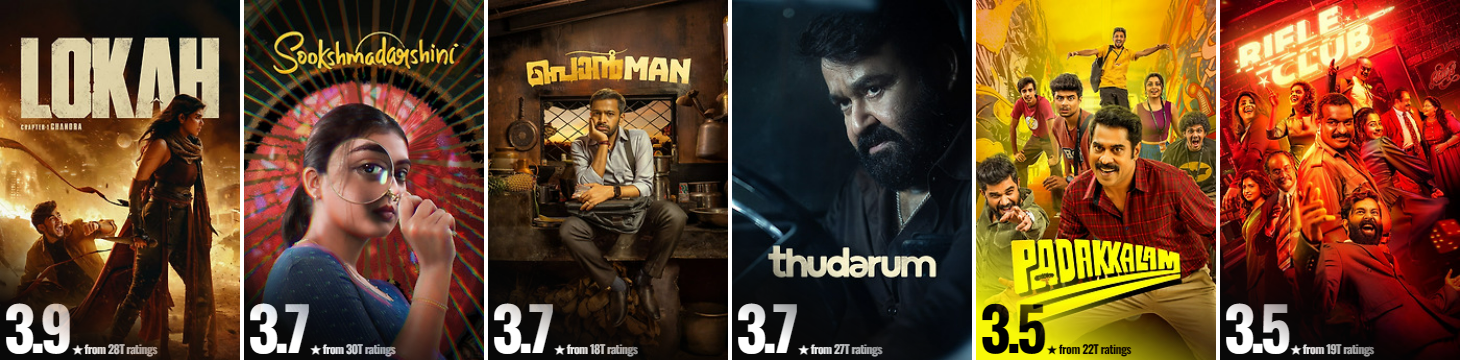
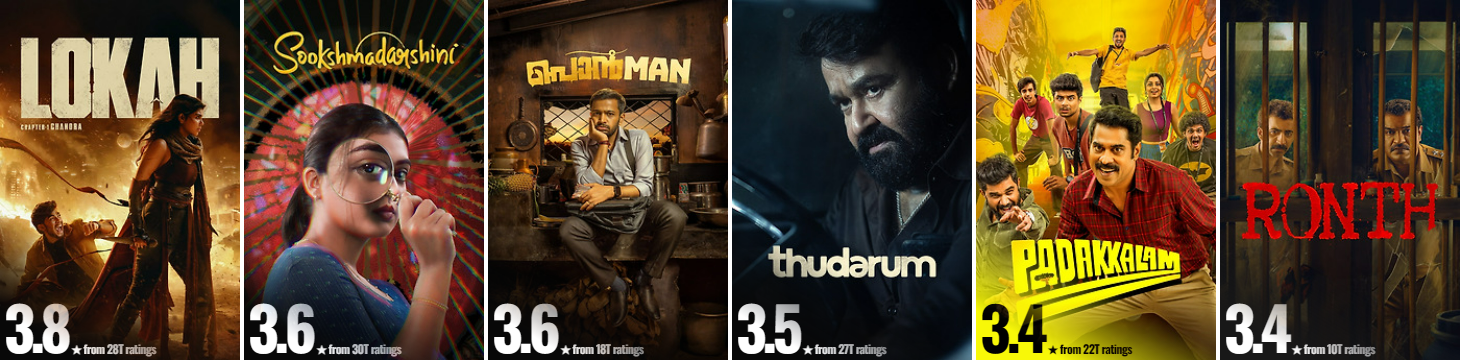
Update movie rating calculation and toggle headless mode in Puppeteer

diff --git a/letterboxd.hits.html.html b/letterboxd.hits.html.html
@@ -36,7 +36,7 @@
   </style>
 </head>
 
-<body class="bg-white" x-data="{ movies: [] }" x-init='movies = [{"enable":true,"last_updated_at":"2025-09-27T18:22+05:30","ltrbxd_slug":"lokah-chapter-one-chandra","name":"Lokah: Chapter One - Chandra","originalName":"ലോകഃ  Chapter One - ചന്ദ്ര","releaseYear":2025,"runTime":150,"director":{"/director/dominic-arun-1/":"Dominic Arun"},"genre":["Fantasy","Adventure","Action"],"image":"https://a.ltrbxd.com/resized/film-poster/1/1/7/3/3/2/4/1173324-lokah-chapter-one-chandra-0-230-0-345-crop.jpg?v=2a812f793d","releaseDate":"2025-08-28","half":32,"five":3510,"two":396,"three":3280,"three_half":5978,"four":10162,"four_half":3835,"one_half":98,"two_half":916,"one":73,"average":3.79,"total":28280,"_count":28280,"count":"28T","_rating":3.873285007072136,"rating":"3.9","dominant":{"r":8,"g":8,"b":8},"bg":"#080808","fg":"white"},{"enable":true,"ltrbxd_slug":"sookshmadarshini","average":3.63,"total":29775,"half":48,"one":87,"one_half":97,"two":603,"two_half":1198,"three":5066,"three_half":8069,"four":10533,"four_half":2262,"five":1812,"last_updated_at":"2025-09-27T18:21+05:30","director":{"/director/mc-jithin/":"MC Jithin"},"genre":["Thriller","Mystery","Comedy"],"image":"https://a.ltrbxd.com/resized/film-poster/8/5/4/8/8/7/854887-sookshmadarshini-0-230-0-345-crop.jpg?v=dae4514406","releaseDate":"2024-11-22","runTime":142,"name":"Sookshmadarshini","originalName":"സൂക്ഷ്മദര്ശിനി","releaseYear":2024,"_count":29775,"count":"30T","_rating":3.669790092359362,"rating":"3.7","dominant":{"r":8,"g":8,"b":8},"bg":"#080808","fg":"white"},{"enable":true,"last_updated_at":"2025-09-27T18:16+05:30","ltrbxd_slug":"ponman","name":"Ponman","originalName":"പൊൻMAN","releaseYear":2025,"runTime":125,"director":{"/director/jyothish-shankar/":"Jyothish Shankar"},"genre":["Drama"],"image":"https://a.ltrbxd.com/resized/film-poster/1/1/2/7/3/4/7/1127347-ponman-0-230-0-345-crop.jpg?v=c28d617ff2","releaseDate":"2025-01-30","one":32,"two":269,"two_half":672,"three":3163,"three_half":5081,"four":6155,"four_half":1125,"five":947,"half":16,"one_half":50,"average":3.62,"total":17510,"_count":17510,"count":"18T","_rating":3.6563677898343805,"rating":"3.7","dominant":{"r":8,"g":8,"b":8},"bg":"#080808","fg":"white"},{"enable":true,"last_updated_at":"2025-09-27T18:19+05:30","ltrbxd_slug":"thudarum","name":"Thudarum","originalName":"തുടരും","releaseYear":2025,"runTime":164,"director":{"/director/tharun-moorthy/":"Tharun Moorthy"},"genre":["Drama","Action","Thriller"],"image":"https://a.ltrbxd.com/resized/film-poster/1/1/4/5/5/0/3/1145503-thudarum-0-230-0-345-crop.jpg?v=9070f2cee0","releaseDate":"2025-04-25","half":49,"one":131,"one_half":153,"two":782,"two_half":1622,"three":5077,"three_half":6468,"four":7425,"four_half":2494,"five":2662,"average":3.51,"total":26863,"_count":26863,"count":"27T","_rating":3.6520865130476863,"rating":"3.7","dominant":{"r":8,"g":8,"b":8},"bg":"#080808","fg":"white"},{"enable":true,"last_updated_at":"2025-09-27T18:15+05:30","ltrbxd_slug":"padakkalam","name":"Padakkalam","originalName":"പടക്കളം","releaseYear":2025,"runTime":124,"director":{"/director/manu-swaraj/":"Manu Swaraj"},"genre":["Comedy","Fantasy"],"image":"https://a.ltrbxd.com/resized/film-poster/1/1/3/6/2/4/2/1136242-padakkalam-0-230-0-345-crop.jpg?v=362c13f189","releaseDate":"2025-05-08","half":25,"one":81,"one_half":106,"two":526,"two_half":1224,"three":5099,"three_half":7080,"four":6094,"four_half":1118,"five":1101,"average":3.42,"total":22454,"_count":22454,"count":"22T","_rating":3.534047385766456,"rating":"3.5","dominant":{"r":248,"g":248,"b":8},"bg":"#f8f808","fg":"black"},{"enable":true,"ltrbxd_slug":"rifle-club","director":{"/director/aashiq-abu/":"Aashiq Abu"},"half":54,"one":134,"one_half":137,"two":651,"two_half":1309,"three":4128,"three_half":4991,"four":5702,"four_half":1132,"five":1084,"last_updated_at":"2025-09-27T18:18+05:30","genre":["Thriller","Action"],"image":"https://a.ltrbxd.com/resized/film-poster/1/0/6/4/4/6/8/1064468-rifle-club-0-230-0-345-crop.jpg?v=ae3f2da0e3","releaseDate":"2024-12-19","runTime":113,"average":3.39,"total":19322,"name":"Rifle Club","originalName":"റൈഫിൾ ക്ലബ്ബ്","releaseYear":2024,"_count":19322,"count":"19T","_rating":3.5252820618983542,"rating":"3.5","dominant":{"r":8,"g":8,"b":8},"bg":"#080808","fg":"white"}]'>
+<body class="bg-white" x-data="{ movies: [] }" x-init='movies = [{"enable":true,"last_updated_at":"2025-09-27T18:22+05:30","ltrbxd_slug":"lokah-chapter-one-chandra","name":"Lokah: Chapter One - Chandra","originalName":"ലോകഃ  Chapter One - ചന്ദ്ര","releaseYear":2025,"runTime":150,"director":{"/director/dominic-arun-1/":"Dominic Arun"},"genre":["Fantasy","Adventure","Action"],"image":"https://a.ltrbxd.com/resized/film-poster/1/1/7/3/3/2/4/1173324-lokah-chapter-one-chandra-0-230-0-345-crop.jpg?v=2a812f793d","releaseDate":"2025-08-28","half":32,"five":3510,"two":396,"three":3280,"three_half":5978,"four":10162,"four_half":3835,"one_half":98,"two_half":916,"one":73,"average":3.79,"total":28280,"_count":28280,"count":"28T","_rating":3.79,"rating":"3.8","dominant":{"r":8,"g":8,"b":8},"bg":"#080808","fg":"white"},{"enable":true,"ltrbxd_slug":"sookshmadarshini","average":3.63,"total":29775,"half":48,"one":87,"one_half":97,"two":603,"two_half":1198,"three":5066,"three_half":8069,"four":10533,"four_half":2262,"five":1812,"last_updated_at":"2025-09-27T18:21+05:30","director":{"/director/mc-jithin/":"MC Jithin"},"genre":["Thriller","Mystery","Comedy"],"image":"https://a.ltrbxd.com/resized/film-poster/8/5/4/8/8/7/854887-sookshmadarshini-0-230-0-345-crop.jpg?v=dae4514406","releaseDate":"2024-11-22","runTime":142,"name":"Sookshmadarshini","originalName":"സൂക്ഷ്മദര്ശിനി","releaseYear":2024,"_count":29775,"count":"30T","_rating":3.63,"rating":"3.6","dominant":{"r":8,"g":8,"b":8},"bg":"#080808","fg":"white"},{"enable":true,"last_updated_at":"2025-09-27T18:16+05:30","ltrbxd_slug":"ponman","name":"Ponman","originalName":"പൊൻMAN","releaseYear":2025,"runTime":125,"director":{"/director/jyothish-shankar/":"Jyothish Shankar"},"genre":["Drama"],"image":"https://a.ltrbxd.com/resized/film-poster/1/1/2/7/3/4/7/1127347-ponman-0-230-0-345-crop.jpg?v=c28d617ff2","releaseDate":"2025-01-30","one":32,"two":269,"two_half":672,"three":3163,"three_half":5081,"four":6155,"four_half":1125,"five":947,"half":16,"one_half":50,"average":3.62,"total":17510,"_count":17510,"count":"18T","_rating":3.62,"rating":"3.6","dominant":{"r":8,"g":8,"b":8},"bg":"#080808","fg":"white"},{"enable":true,"last_updated_at":"2025-09-27T18:19+05:30","ltrbxd_slug":"thudarum","name":"Thudarum","originalName":"തുടരും","releaseYear":2025,"runTime":164,"director":{"/director/tharun-moorthy/":"Tharun Moorthy"},"genre":["Drama","Action","Thriller"],"image":"https://a.ltrbxd.com/resized/film-poster/1/1/4/5/5/0/3/1145503-thudarum-0-230-0-345-crop.jpg?v=9070f2cee0","releaseDate":"2025-04-25","half":49,"one":131,"one_half":153,"two":782,"two_half":1622,"three":5077,"three_half":6468,"four":7425,"four_half":2494,"five":2662,"average":3.51,"total":26863,"_count":26863,"count":"27T","_rating":3.51,"rating":"3.5","dominant":{"r":8,"g":8,"b":8},"bg":"#080808","fg":"white"},{"enable":true,"last_updated_at":"2025-09-27T18:15+05:30","ltrbxd_slug":"padakkalam","name":"Padakkalam","originalName":"പടക്കളം","releaseYear":2025,"runTime":124,"director":{"/director/manu-swaraj/":"Manu Swaraj"},"genre":["Comedy","Fantasy"],"image":"https://a.ltrbxd.com/resized/film-poster/1/1/3/6/2/4/2/1136242-padakkalam-0-230-0-345-crop.jpg?v=362c13f189","releaseDate":"2025-05-08","half":25,"one":81,"one_half":106,"two":526,"two_half":1224,"three":5099,"three_half":7080,"four":6094,"four_half":1118,"five":1101,"average":3.42,"total":22454,"_count":22454,"count":"22T","_rating":3.42,"rating":"3.4","dominant":{"r":248,"g":248,"b":8},"bg":"#f8f808","fg":"black"},{"enable":true,"last_updated_at":"2025-09-27T18:20+05:30","ltrbxd_slug":"ronth","name":"Ronth","originalName":"റോന്ത്","releaseYear":2025,"runTime":120,"director":{"/director/shahi-kabir/":"Shahi Kabir"},"genre":["Drama","Crime"],"image":"https://a.ltrbxd.com/resized/film-poster/1/2/3/3/4/4/4/1233444-ronth-0-230-0-345-crop.jpg?v=56b3792ec6","releaseDate":"2025-06-13","half":29,"one":78,"one_half":92,"two":387,"two_half":804,"three":2320,"three_half":3009,"four":2765,"four_half":449,"five":331,"average":3.41,"total":10264,"_count":10264,"count":"10T","_rating":3.41,"rating":"3.4","dominant":{"r":24,"g":24,"b":24},"bg":"#181818","fg":"white"}]'>
   <div class="flex">
     <div class="flex" id="screenshot">
       <template x-for="(v, i) in movies">

diff --git a/letterboxd.hits.js b/letterboxd.hits.js
@@ -41,6 +41,7 @@ const configs = JSON.parse(fs.readFileSync(config_path, "utf8"));
         i.count = toEnIn(i._count, "en-in", { notation: "compact" });
 
         i._rating =
+          i.average ||
           ((i.half || 0) * 0.5 +
             (i.one || 0) +
             (i.one_half || 0) * 1.5 +
@@ -51,7 +52,7 @@ const configs = JSON.parse(fs.readFileSync(config_path, "utf8"));
             (i.four || 0) * 4 +
             (i.four_half || 0) * 4.5 +
             (i.five || 0) * 5) /
-          i._count;
+            i._count;
         i.rating = toEnIn(i._rating, "en-in", {
           notation: "compact",
         });
@@ -120,7 +121,7 @@ const configs = JSON.parse(fs.readFileSync(config_path, "utf8"));
     ],
     defaultViewport: { width: 1920, height: 1080 },
     executablePath,
-    headless: false,
+    // headless: false,
   });
   let [page] = await browser.pages();
   if (!page) page = await browser.newPage();
